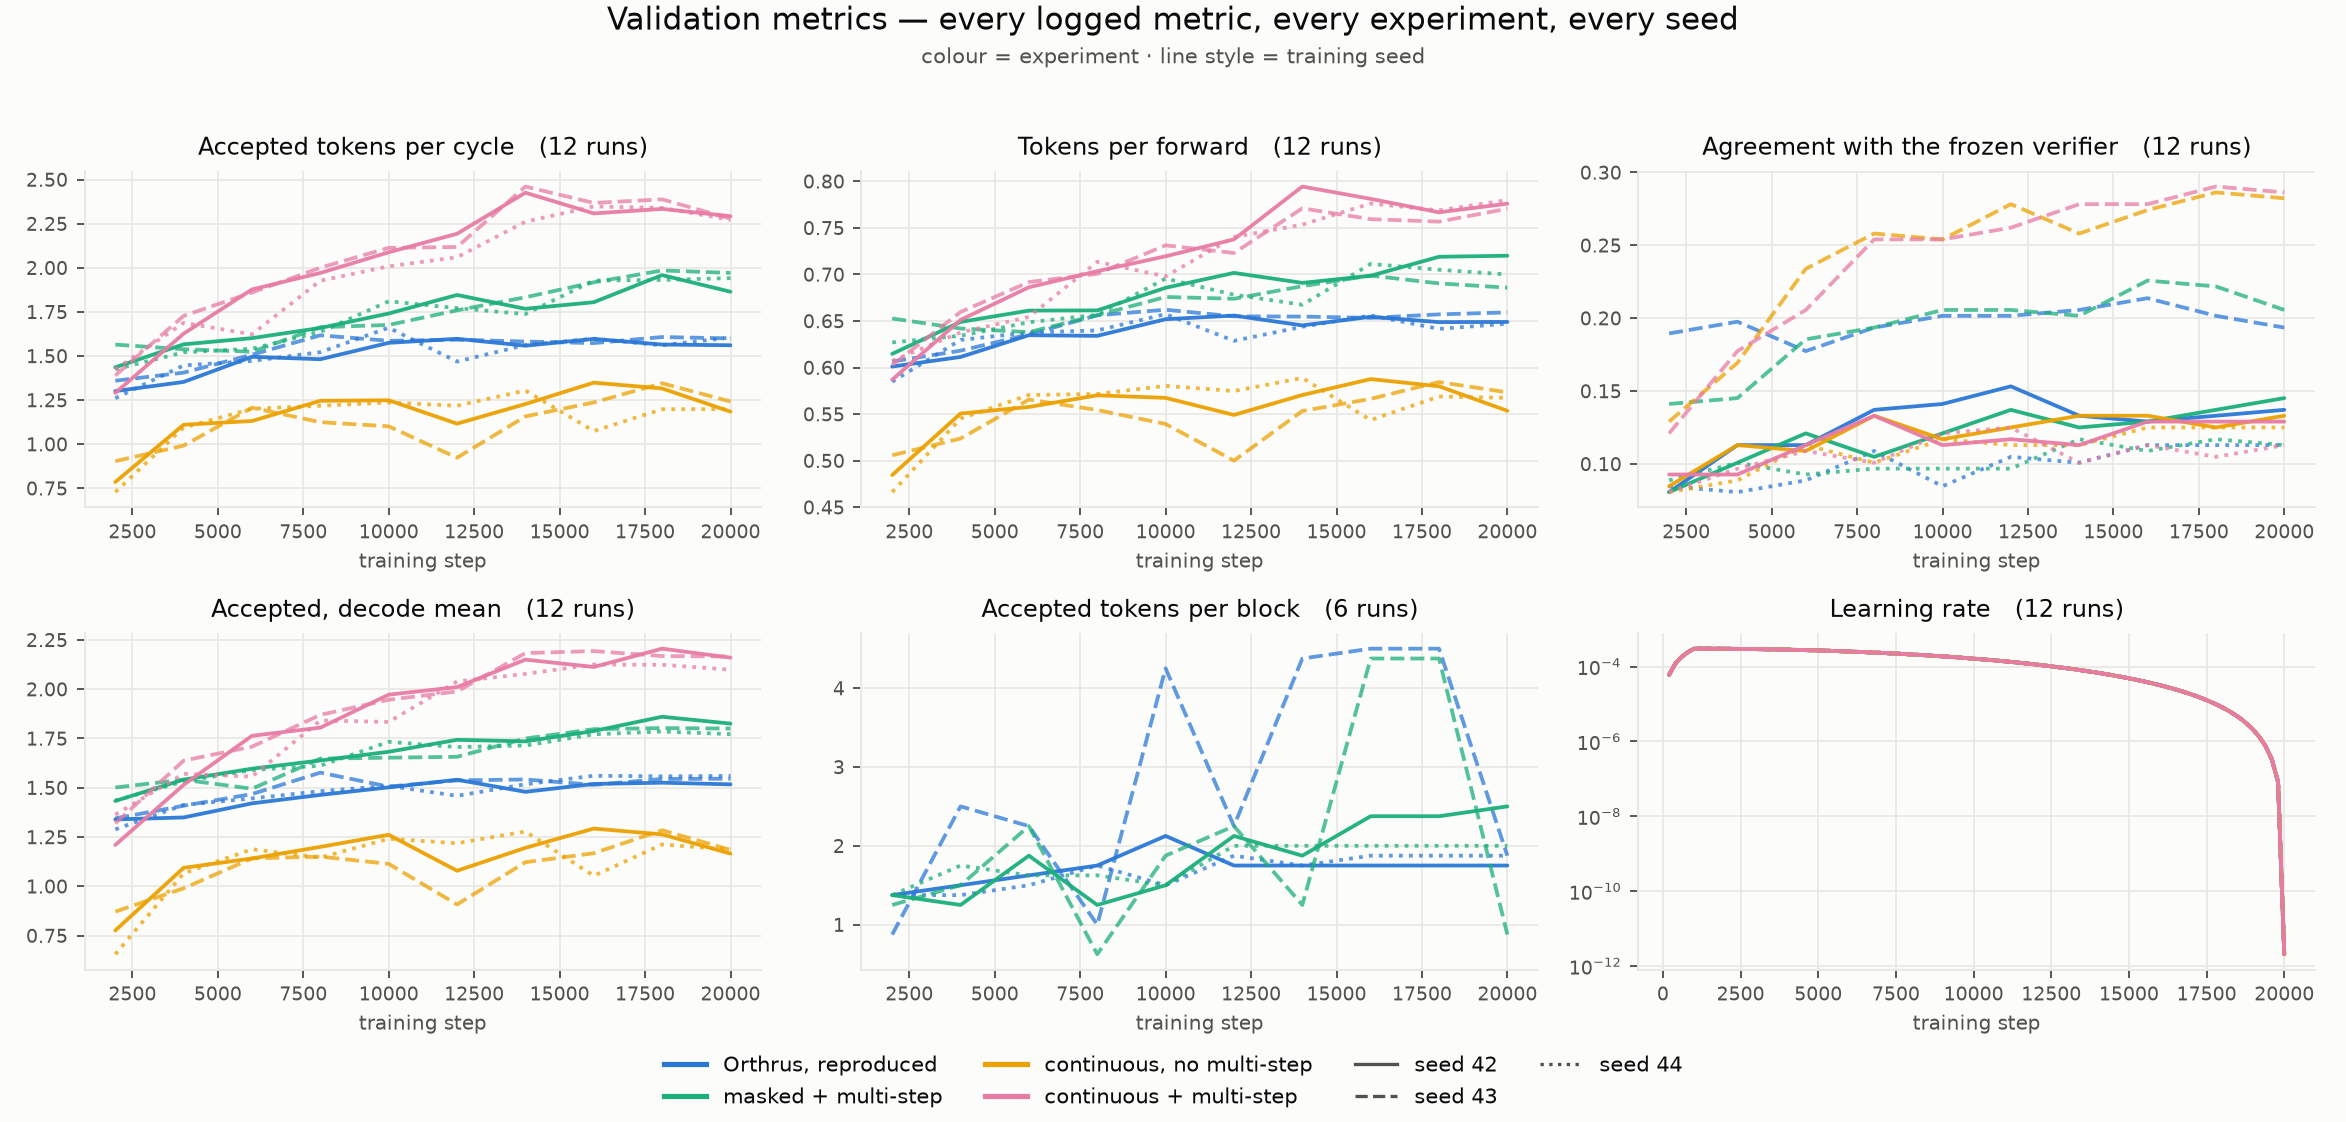
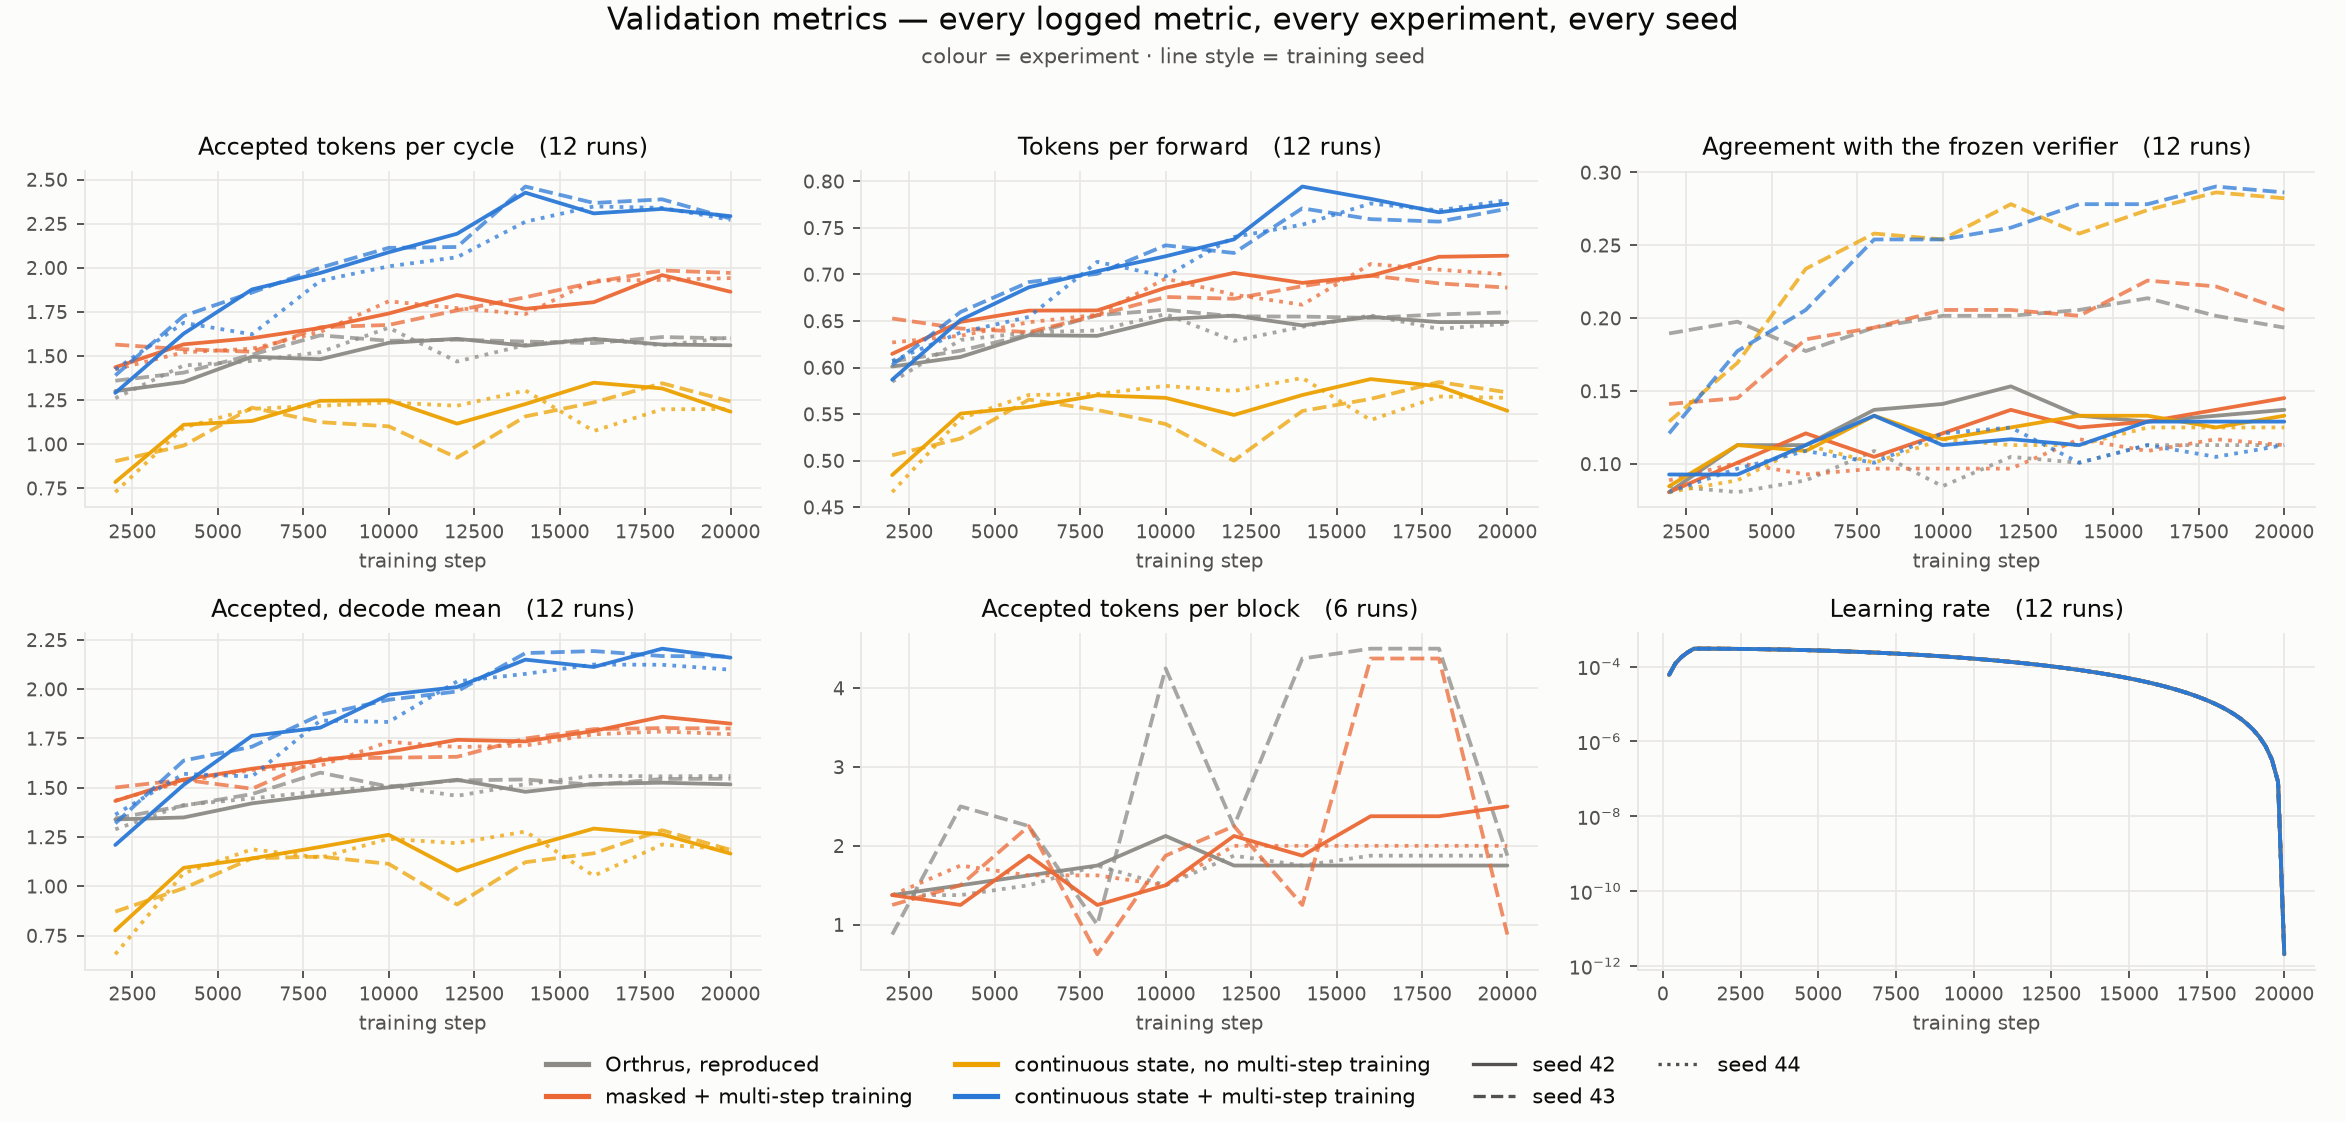
fix(figures): one palette across the README, and stop pointing at a stale generator
Three different colour schemes were in play on one page: blue meant 'continuous
+ multi-step' in multistep/per_benchmark/horizon and 'Orthrus' in the curves
figures. A reader flipping between them would have read the most important
series backwards. curves.py now uses the same assignment as the rest -- grey for
the baseline, orange, yellow, blue -- so one colour means one experiment
everywhere.

seeds.png was the last figure on a third scheme and had no generator. Its
content is reproduced as curves_seeds.png from bench/curves.py: one panel per
experiment, shared y-axis, seed-to-seed range shaded.

Quickstart no longer tells anyone to run bench/figures.py. That script is from
the 6000-step five-configuration era, labels its axes in Russian, and writes
contrasts.png -- so following the instruction would have overwritten a current
English figure with a stale one. Said so plainly, along with which four figures
have no generator at all.

diff --git a/README.md b/README.md
@@ -111,7 +111,7 @@ it: −0.148 → +0.612 → +0.675 at one, three and four passes.
 
 ![acceptance and throughput vs refinement passes](results/figures/multistep.png)
 ![paired contrasts with the seed as the unit](results/figures/contrasts.png)
-![training curves across three seeds](results/figures/seeds.png)
+![acceptance during training, per experiment and seed](results/figures/curves_seeds.png)
 ![per-benchmark breakdown](results/figures/per_benchmark.png)
 ![measured horizon](results/figures/horizon.png)
 
@@ -450,15 +450,23 @@ Useful flags: `--step` (which snapshot), `--sched` (`n1`/`n2`/`n3`/`n4`),
 ### 6. Training curves and figures
 
 ```bash
-uv run python bench/curves.py     # every loss term and every metric, per seed
-uv run python bench/figures.py    # acceptance vs passes, horizon, contrasts
+uv run python bench/curves.py     # every loss term, every metric, per seed
 ```
 
 `bench/curves.py` reads the TensorBoard scalars each run writes under
-`checkpoints/**/lightning_logs/` and produces two figures in which colour is the
-experiment and line style is the training seed, so "do the experiments differ"
-and "do the seeds agree" stay separate questions. Terms carrying weight zero are
-named in the caption instead of being drawn as a flat line on an invented axis.
+`checkpoints/**/lightning_logs/` and produces three figures — `curves_loss`,
+`curves_metrics` and `curves_seeds` — in which colour is the experiment and line
+style is the training seed, so "do the experiments differ" and "do the seeds
+agree" stay separate questions. Terms carrying weight zero are named in the
+caption instead of being drawn as a flat line on an invented axis.
+
+**`bench/figures.py` is stale and is deliberately not listed above.** It dates
+from the earlier 6000-step, five-configuration bench, its labels are in Russian,
+and it writes `contrasts.png` — so running it would overwrite a current figure
+with an outdated one. The four result figures in the study section
+(`multistep`, `contrasts`, `per_benchmark`, `horizon`) were produced by a script
+that was never committed and cannot presently be regenerated; their numbers were
+checked against `bench/analyze.py`, but the plotting code behind them is gone.
 
 ![loss curves per experiment and seed](results/figures/curves_loss.png)
 ![validation metrics per experiment and seed](results/figures/curves_metrics.png)
